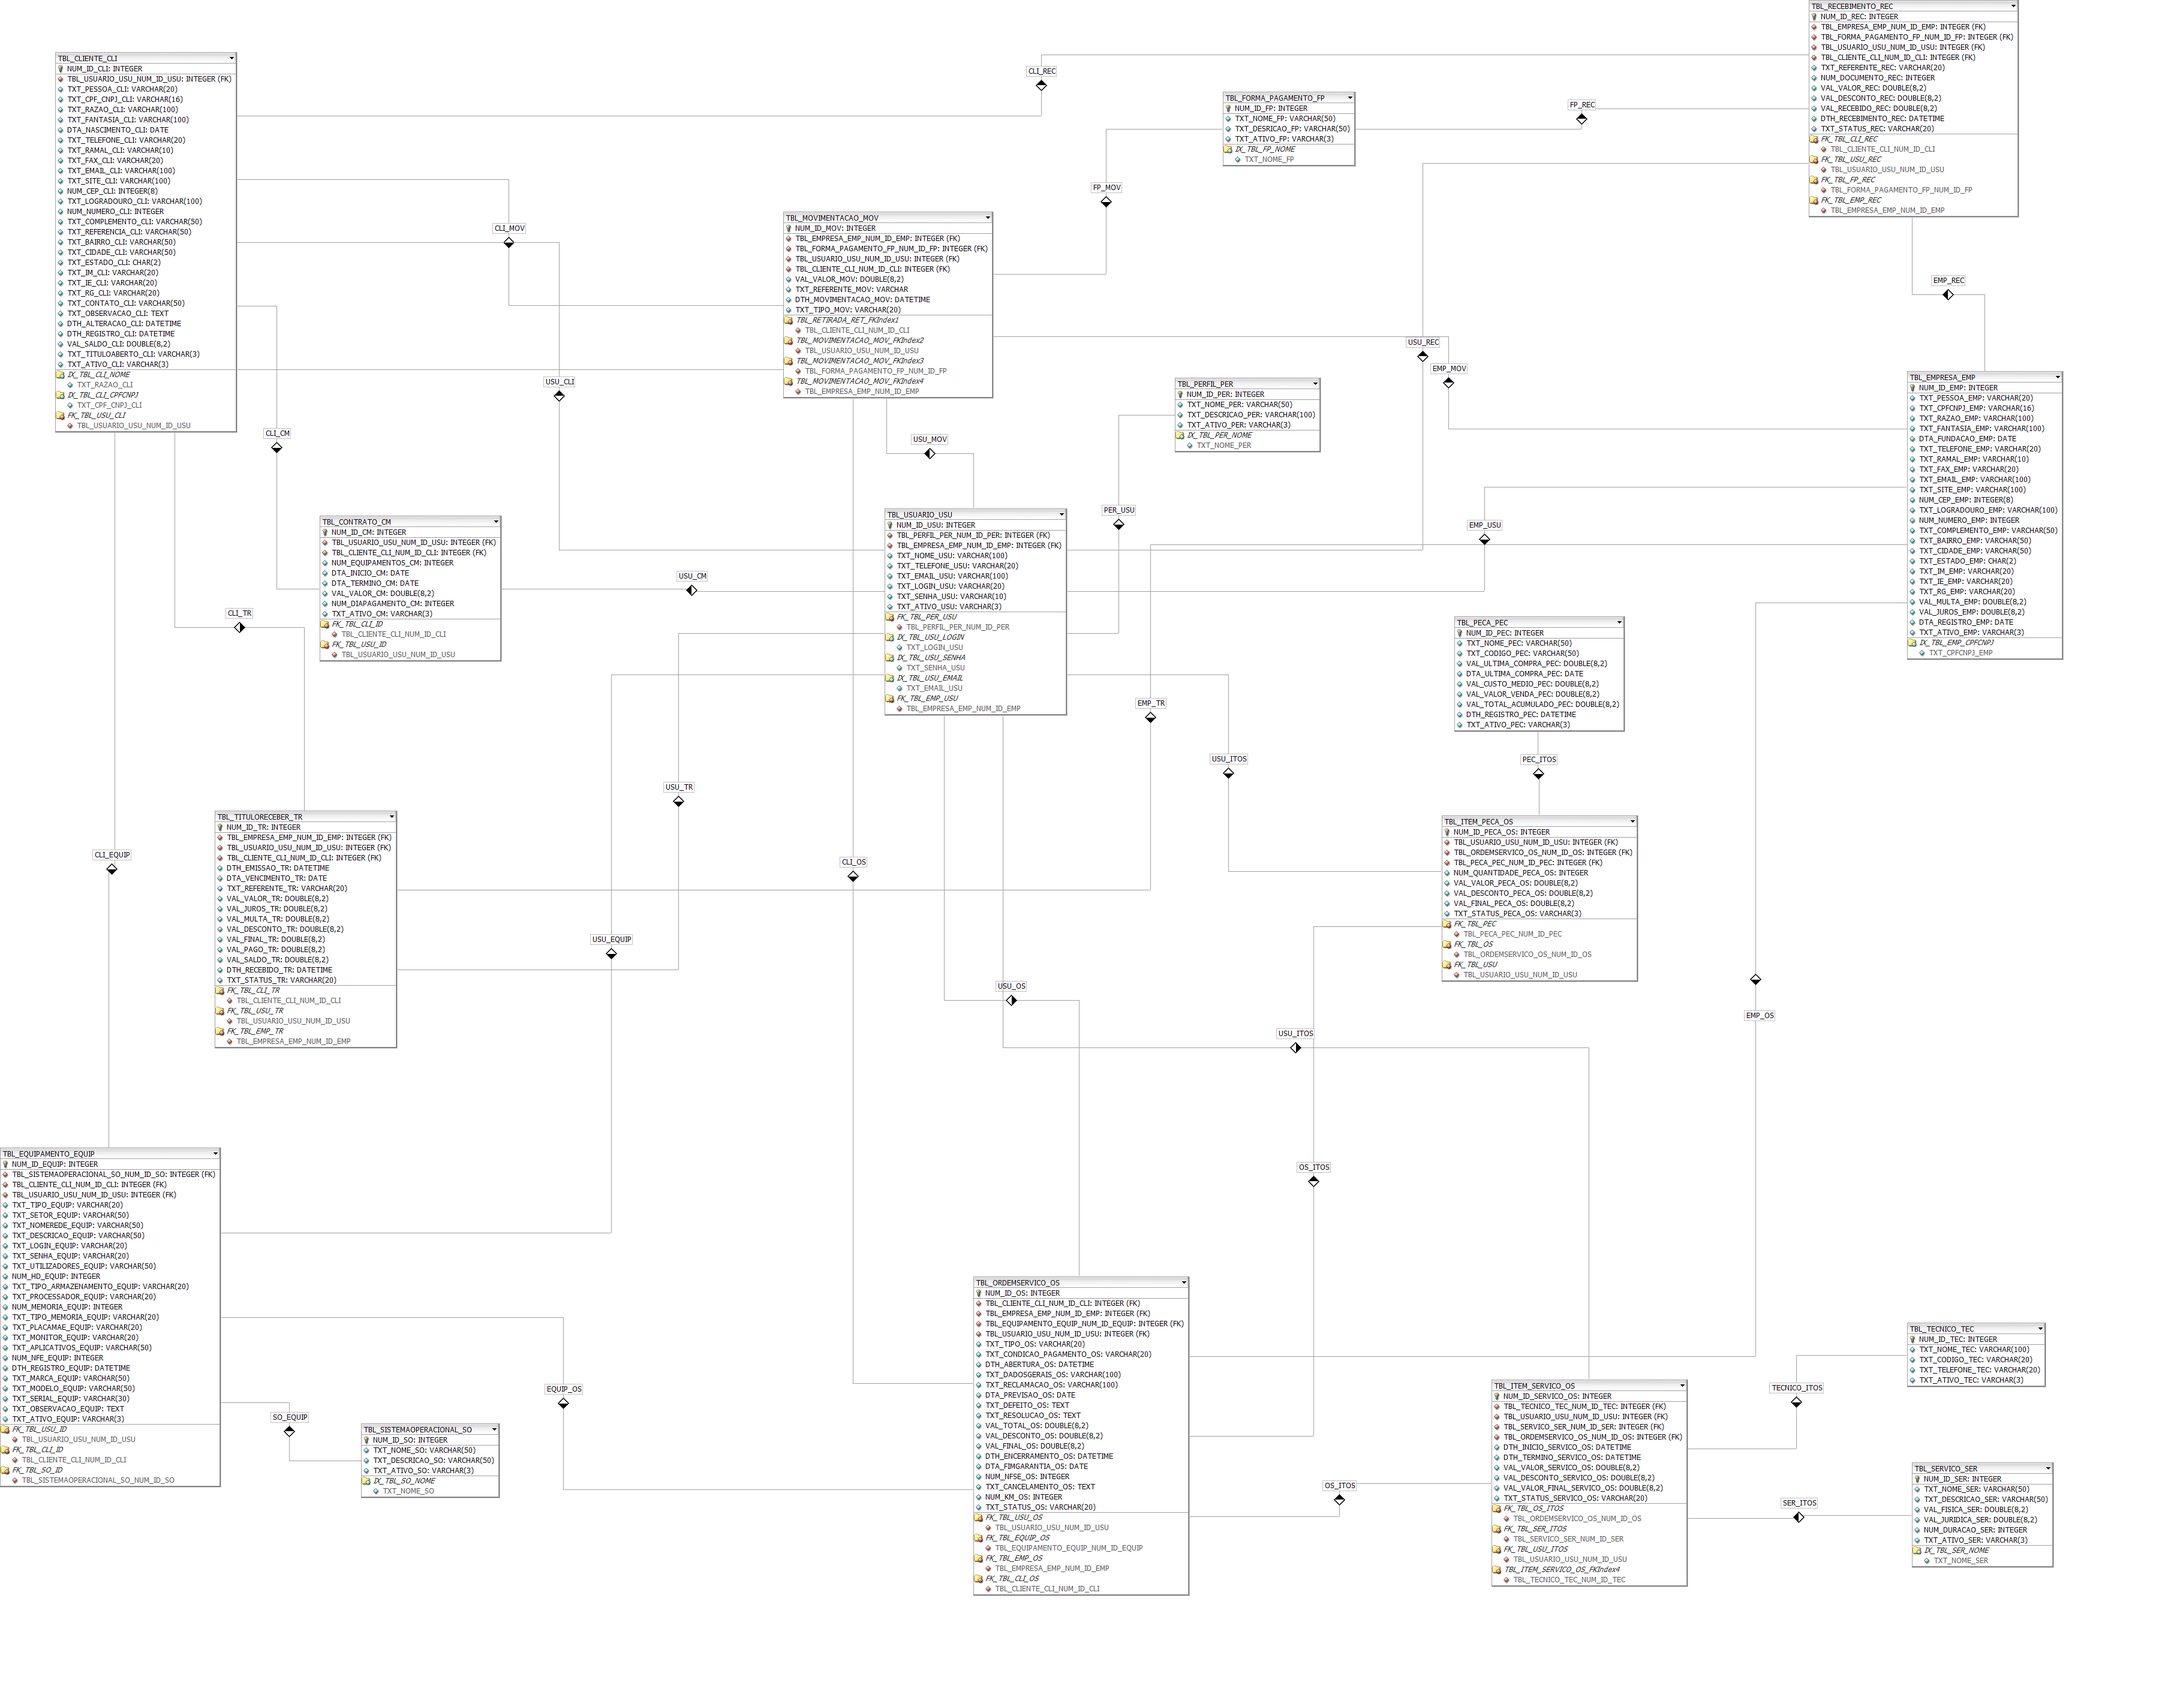
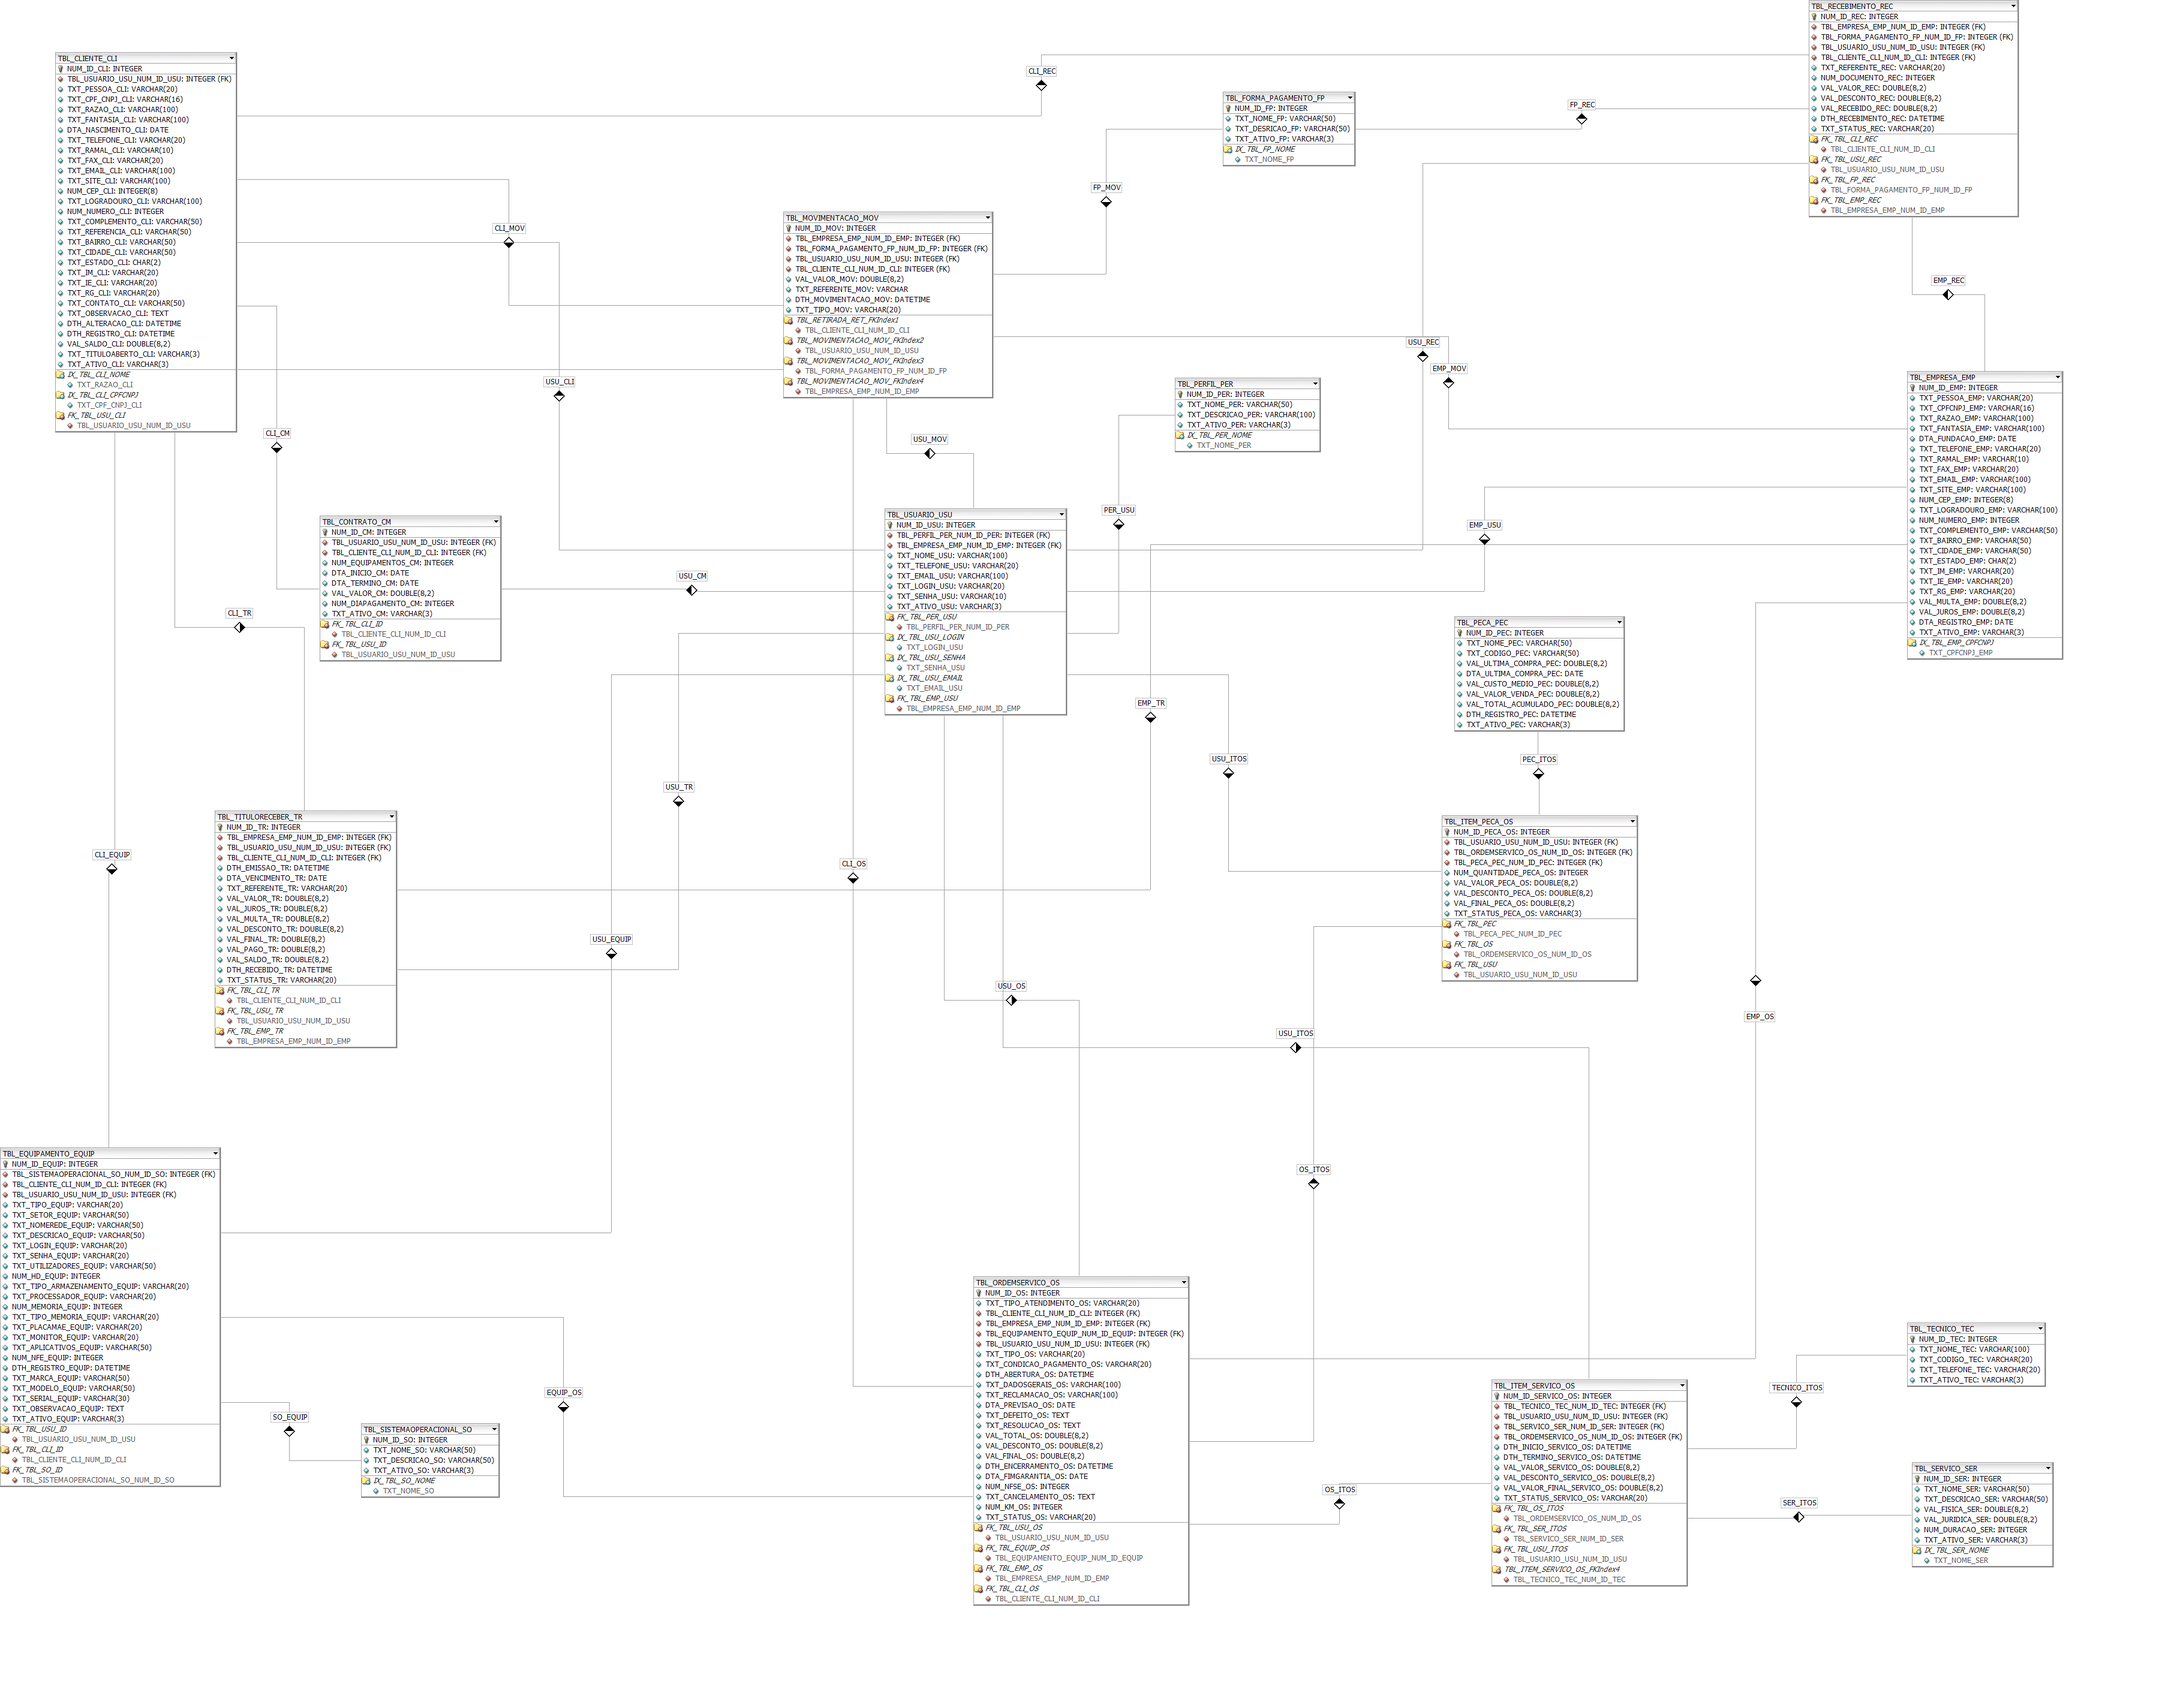
MOdulo Ordem de Servico
MOdulo Ordem de Servico

diff --git a/cadastro-os.php b/cadastro-os.php
@@ -2,13 +2,13 @@
 //verificacao se equipamento possui OS em garantia
   include "conexao.php";
   
- $valor = base64_decode($_GET['id_e']);//id_e
- $id_cliente_fr = base64_decode($_GET['id_c']);//id_c
+ $id_e = base64_decode($_GET['id_e']);//id_e
+ $id_cliente = base64_decode($_GET['id_c']);//id_c
  $nome_cliente = base64_decode($_GET['nc']);
 
  $iniciogarantia = date('Y-m-d');
 
-    $sql = $con->prepare("SELECT * FROM TBL_ORDEMSERVICO_OS WHERE TBL_FROTA_FR_NUM_ID_FR = '$valor' and DTA_FIMGARANTIA_OS >= '$iniciogarantia'");
+    $sql = $con->prepare("SELECT * FROM TBL_ORDEMSERVICO_OS WHERE TBL_EQUIPAMENTO_EQUIP_NUM_ID_EQUIP = '$id_e' and DTA_FIMGARANTIA_OS >= '$iniciogarantia'");
     $sql->execute();
     if($sql->rowCount()>0){ ?> 
           <div class="alert alert-danger" role="alert">
@@ -22,28 +22,30 @@
 <html xmlns="http://www.w3.org/1999/xhtml">
 <body>
 
-<?php     
-    $id_fr = $_GET["id_fr"]; 
-    $id_cliente_fr = $_GET["id_cliente_fr"];     
-?>
-
 <form name="ordemservico" action="processa-os.php?acao=cadastrar" method="post" onSubmit="return validaForm()">
-<INPUT TYPE="hidden" NAME="id_fr" VALUE="<?php echo"$id_fr" ?>" />
-<INPUT TYPE="hidden" NAME="id_cliente_fr" VALUE="<?php echo"$id_cliente_fr" ?>" />
+<INPUT TYPE="hidden" NAME="id_e" VALUE="<?php echo "$id_e" ?>" />
+<INPUT TYPE="hidden" NAME="id_cliente" VALUE="<?php echo "$id_cliente" ?>" />
 
 <table class="table responsive">
-	<tr>
-	    <td> <?php include "inicial.php"?></td>
-	</tr>
-	<tr>
-		<td><legend class="p-4 table-primary">Nova Ordem de Servico<legend></td>
-	</tr>
-</table>
-<table class="table">
+<tr>
+    <td> <?php include "inicial.php"?></td>
+</tr>
+<tr>
+	<td><legend class="p-4 table-primary">Nova Ordem de Servico<legend></td>
+</tr>
 <tr>
     <td>
         <div class="form-row g-3">
-            <div class="form-group form-group-lg col-md-3 col-sm-6"><label for="tipo_os">Tipo</label>
+            <div class="form-group form-group-lg col-md-2 col-sm-6"><label for="tipo_atendimento">Tipo Atendimento</label>
+                <select name="tipo_atendimento" id="tipo_atendimento" class="form-control" required title="INFORME O TIPO DE ATENDIMENTO AO CLIENTE">
+                <option value="S">Selecione..</option>
+                <option value="EMPRESA">EMPRESA</option>
+                <option value="CLIENTE">CLIENTE</option>
+                <option value="REMOTO">REMOTO</option>
+                </select>
+            </div> 
+
+            <div class="form-group form-group-lg col-md-2 col-sm-6"><label for="tipo_os">Tipo</label>
                 <select name="tipo_os" id="tipo_os" class="form-control" required title="INFORME O TIPO DA ORDEM DE SERVICO">
                 <option value="S">Selecione..</option>
                 <option value="PADRAO">PADRAO</option>
@@ -51,24 +53,24 @@
                 </select>
             </div>  
             
-            <div class="form-group  col-md-3 col-sm-6"><label for="km">KM Atual</label>
-                <input class="form-control input-lg" name="km" type="number" id="km" required="required" title="INFORME O KM ATUAL DA FROTA" />
+            <div class="form-group  col-md-2 col-sm-6"><label for="km">KM Gasto</label>
+                <input class="form-control input-lg" name="km" type="number" id="km" required="required" title="INFORME QUANTOS KM GASTO PRA IR AO LOCAL" />
             </div> 
 
             <div class="form-group  col-md-6 col-sm-6"><label for="nomeclient">Cliente</label>
-                <input class="form-control input-lg" name="km" type="text"  value="<?php echo $nome_cliente ?>" readonly="true" title="NOME DO CLIENTE" /> 
+                <input class="form-control input-lg" type="text"  value="<?php echo $nome_cliente ?>" readonly="true" title="NOME DO CLIENTE" /> 
             </DIV>
 
-            <div class="form-group  col-md-9 col-sm-6"><label for="dadosgerais">Dados Gerais Frota</label>
-                <input class="form-control input-lg" name="dadosgerais" type="text" id="dadosgerais" title="CAMPO CHECKLIST DA FROTA" />
+            <div class="form-group  col-md-9 col-sm-6"><label for="dadosgerais">Dados Gerais Equipamento</label>
+                <input class="form-control input-lg" name="dadosgerais" type="text" id="dadosgerais" title="DESCREVA DEFEITOS ESTETICOS NO EQUIPAMENTO" />
             </div> 
 
             <div class="form-group  col-md-3 col-sm-6"><label for="previsao">Previsao</label>
                 <input class="form-control input-lg" name="previsao" type="date" id="previsao" title="SELECIONE PREVISAO DE TERMINO" />
             </div>
         
-            <div class="form-group col-md-12 col-sm-12"><label for="solicitacoes">Solicitacoes</label>
-                <textarea name="solicitacoes" id="solicitacoes" class="form-control" required="required" cols="120" rows="3" title="INFORME A SOLICITACAO DO CLIENTE"></textarea> 
+            <div class="form-group col-md-12 col-sm-12"><label for="reclamacao">Reclamacao</label>
+                <textarea name="reclamacao" id="reclamacao" class="form-control" required="required" cols="120" rows="3" title="INFORME A RECLAMACAO DO CLIENTE"></textarea> 
             </div>  
           
             <div class="form-group col-md-2">

diff --git a/processa-os.php b/processa-os.php
@@ -2,15 +2,14 @@
 
 include "verifica.php";
 
+//echo $_POST['mecanico'];
 
-
-echo $_POST['mecanico'];
-
-		$id_cliente					=base64_decode($_POST["id_cliente_fr"]);
-		$id_fr						=base64_decode($_POST["id_fr"]);
+		$id_cliente					=$_POST["id_cliente"];
+		$tipo_atendimento			=$_POST["tipo_atendimento"];
+		$id_e						=$_POST["id_e"];
 		$tipo_os  					=$_POST["tipo_os"];
 		$dadosgerais				=$_POST["dadosgerais"];
-		$solicitacoes				=$_POST["solicitacoes"];
+		$reclamacao					=$_POST["reclamacao"];
 		$previsao					=$_POST['previsao'];	
 		$km							=$_POST['km'];	
 		//$cancelamento				=strtoupper($_POST["cancelamento"]);
@@ -75,26 +74,31 @@ case "cadastrar":
 		echo "<META HTTP-EQUIV=REFRESH CONTENT='0; URL=consulta-frota.php'><script type=\"text/javascript\">alert(\"Erro no processamento das informacoes!\");</script>";		
 	}else{				
 				
-				$sqlCadastro = $con->prepare("INSERT INTO TBL_ORDEMSERVICO_OS (`TBL_FROTA_FR_NUM_ID_FR`, `TBL_CLIENTE_CLI_NUM_ID_CLI`, `TBL_EMPRESA_EMP_NUM_ID_EMP`, 
+				$sqlCadastro = $con->prepare("INSERT INTO TBL_ORDEMSERVICO_OS (`TXT_TIPO_ATENDIMENTO_OS`,`TBL_CLIENTE_CLI_NUM_ID_CLI`,`TBL_EMPRESA_EMP_NUM_ID_EMP`,`TBL_EQUIPAMENTO_EQUIP_NUM_ID_EQUIP`, 
 				
-					`TBL_USUARIO_USU_NUM_ID_USU`,`TXT_TIPO_OS`, `DTH_ABERTURA_OS`,`TXT_DADOSGERAIS_OS`, `NUM_KM_OS`, `TXT_SOLICITACOES_OS`, `DTA_PREVISAO_OS`,
+					`TBL_USUARIO_USU_NUM_ID_USU`,`TXT_TIPO_OS`, `TXT_CONDICAO_PAGAMENTO_OS`,`DTH_ABERTURA_OS`,`TXT_DADOSGERAIS_OS`, `TXT_RECLAMACAO_OS`,  `DTA_PREVISAO_OS`, `TXT_DEFEITO_OS`, `TXT_RESOLUCAO_OS`,
 											
-					`VAL_TOTAL_OS`, `VAL_DESCONTO_OS`, `VAL_FINAL_OS`, `DTH_ENCERRAMENTO_OS`, `DTA_FIMGARANTIA_OS`, `NUM_NFSE_OS`, `TXT_CANCELAMENTO_OS`,`TXT_CONDICAO_PAGAMENTO_OS`, `TXT_STATUS_OS`)
+					`VAL_TOTAL_OS`, `VAL_DESCONTO_OS`, `VAL_FINAL_OS`, `DTH_ENCERRAMENTO_OS`, `DTA_FIMGARANTIA_OS`, `NUM_NFSE_OS`, `TXT_CANCELAMENTO_OS`, `NUM_KM_OS`,`TXT_STATUS_OS`)
 
-					VALUES (?,?,?,?,?,now(),?,?,?,?,0,0,0,null,null,0,null,NULL,'ABERTA')"); 
+					VALUES (?,?,?,?,?,?,null, now(),?,?,?,?,?,0,0,0,null,null,0,null,?,'ABERTA')"); 
 
-				$sqlCadastro->bindParam(1,$id_fr);
+				$sqlCadastro->bindParam(1,$tipo_atendimento);
 				$sqlCadastro->bindParam(2,$id_cliente);
-				$sqlCadastro->bindParam(3,$empresa_usuario);				
-				$sqlCadastro->bindParam(4,$id_usuario);
-				$sqlCadastro->bindParam(5,$tipo_os);
-				$sqlCadastro->bindParam(6,$dadosgerais);
-				$sqlCadastro->bindParam(7,$km);
-				$sqlCadastro->bindParam(8,$solicitacoes);
+				$sqlCadastro->bindParam(3,$empresa_usuario);
+				$sqlCadastro->bindParam(4,$id_e);								
+				$sqlCadastro->bindParam(5,$id_usuario);
+				$sqlCadastro->bindParam(6,$tipo_os);
+
+				$sqlCadastro->bindParam(7,$dadosgerais);
+				$sqlCadastro->bindParam(8,$reclamacao);
 				$sqlCadastro->bindParam(9,$previsao);
+				$sqlCadastro->bindParam(10,$defeito);
+				$sqlCadastro->bindParam(11,$resolucao);
+
+				$sqlCadastro->bindParam(12,$km);
+				
 		
-				if(! $sqlCadastro->execute() )
-				{
+				if(! $sqlCadastro->execute() ){
 				  	die('Houve um erro no processamento da transação: ' . $sqlCadastro . mysqli_error($con));
 				}				
 				$result = $con->prepare("SELECT MAX(NUM_ID_OS) FROM TBL_ORDEMSERVICO_OS");

diff --git a/listagem-equipamentos.php b/listagem-equipamentos.php
@@ -67,6 +67,7 @@
                 <tr class="table-success" align="center">		
                     <th scope="col">ID</th>
                     <th scope="col">Ativo</th>
+                    <th scope="col">Cliente</th>
                     <th scope="col">Tipo</th>
                     <th scope="col">Equipamento</th>
                     <th scope="col">Utilizacao</th>
@@ -79,6 +80,7 @@
                 <tr align="center">
                   <td><?php echo $row->NUM_ID_EQUIP?></td>
                   <td><?php echo $row->TXT_ATIVO_EQUIP?></td>
+                  <td><?php echo $row->TXT_RAZAO_CLI?></td>
                   <td><?php echo $row->TXT_TIPO_EQUIP?></td>
                   <td><?php echo $row->TXT_MARCA_EQUIP ?> / <?php echo $row->TXT_MODELO_EQUIP?> / <?php echo $row->TXT_SERIAL_EQUIP?></td>
                   <td><?php echo $row->TXT_DESCRICAO_EQUIP ?></td>
@@ -88,7 +90,7 @@
                           <button class="btn btn-outline-primary btn-sm dropdown-toggle" type="button" id="dropdownMenuButton" data-toggle="dropdown" aria-haspopup="true" aria-expanded="false">Ações</button>
                           <div class="dropdown-menu" aria-labelledby="dropdownMenuButton">
                             <a class="dropdown-item" href="detalhes-equipamentos.php?id=<?php echo base64_encode($row->NUM_ID_EQUIP)?>">Detalhes</a>
-                            <a class="dropdown-item" href="cadastro-os.php?id_equip=<?php echo base64_encode($row->NUM_ID_EQUIP) ?>&id_cliente_equip=<?php echo base64_encode($row->TBL_CLIENTE_CLI_NUM_ID_CLI)?>&nome_cliente=<?php echo base64_encode($row->TXT_RAZAO_CLI)?>">Abrir OS</a>
+                            <a class="dropdown-item" href="cadastro-os.php?id_e=<?php echo base64_encode($row->NUM_ID_EQUIP) ?>&id_c=<?php echo base64_encode($row->TBL_CLIENTE_CLI_NUM_ID_CLI)?>&nc=<?php echo base64_encode($row->TXT_RAZAO_CLI)?>">Abrir OS</a>
                             <a class="dropdown-item" href="historico-os.php?valor=<?php echo $row->NUM_ID_EQUIP; ?>&id_cliente_equip=<?php echo base64_encode($row->TBL_CLIENTE_CLI_NUM_ID_CLI)?>&nome_cliente=<?php echo base64_encode($row->TXT_RAZAO_CLI)?>">Histórico de OS</a> 
                           </div>
                       </div>
